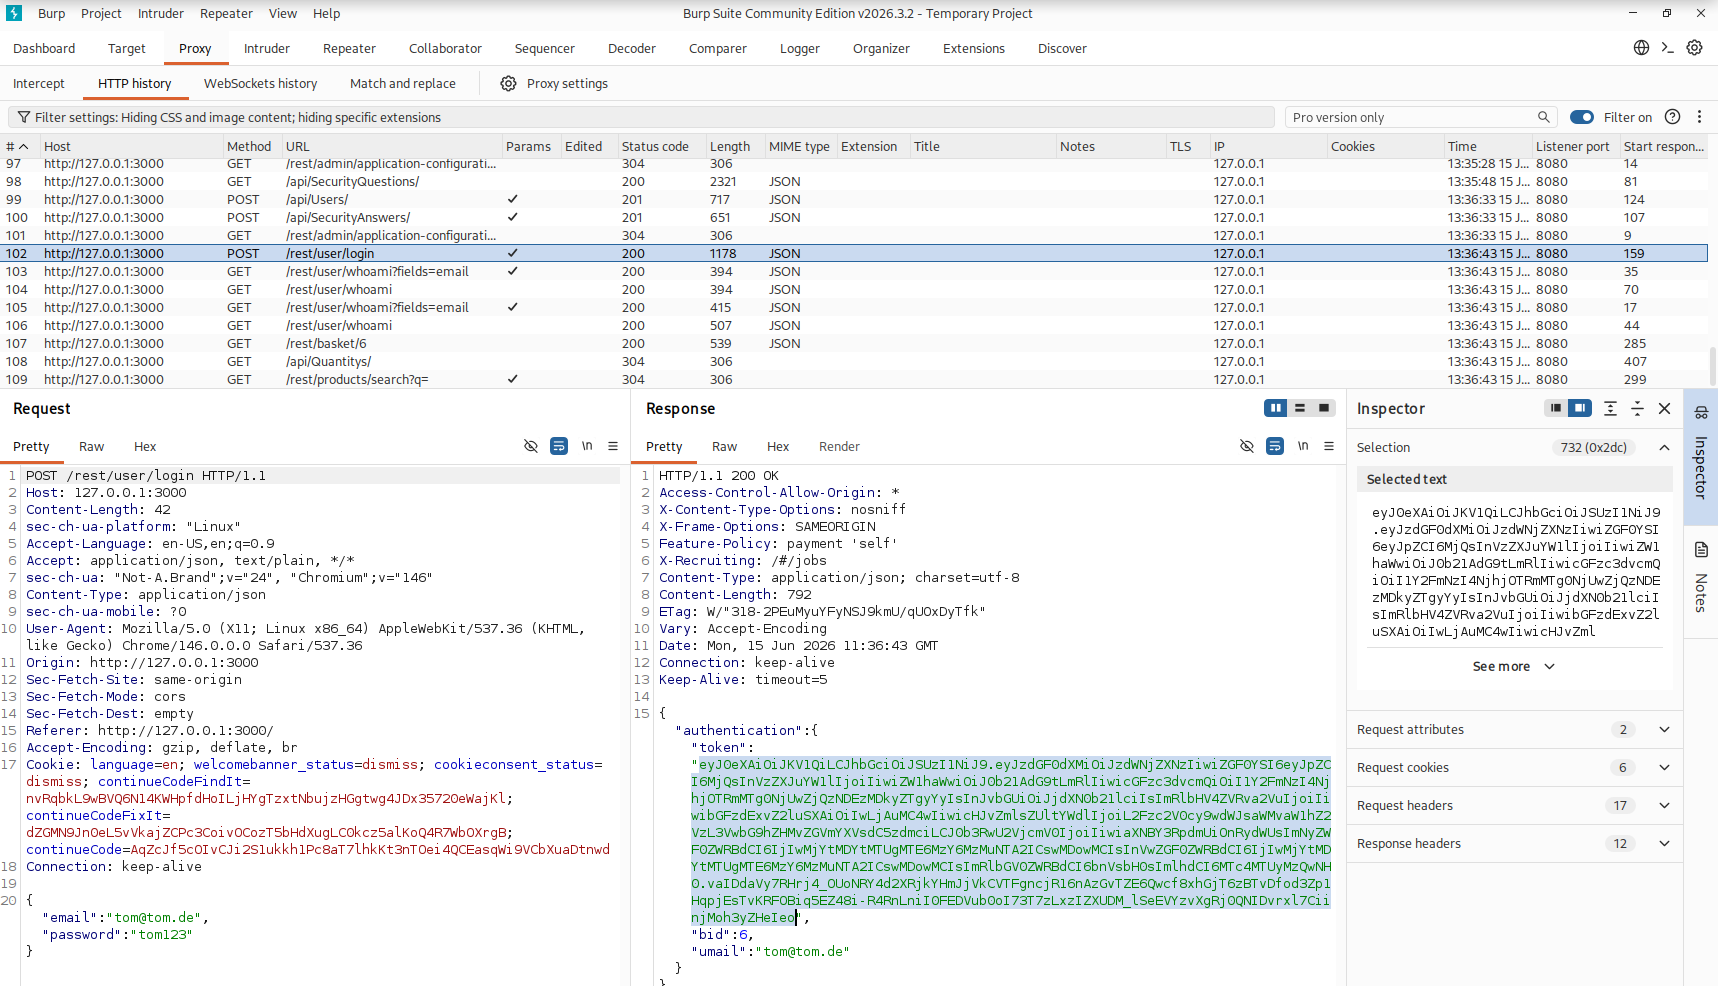
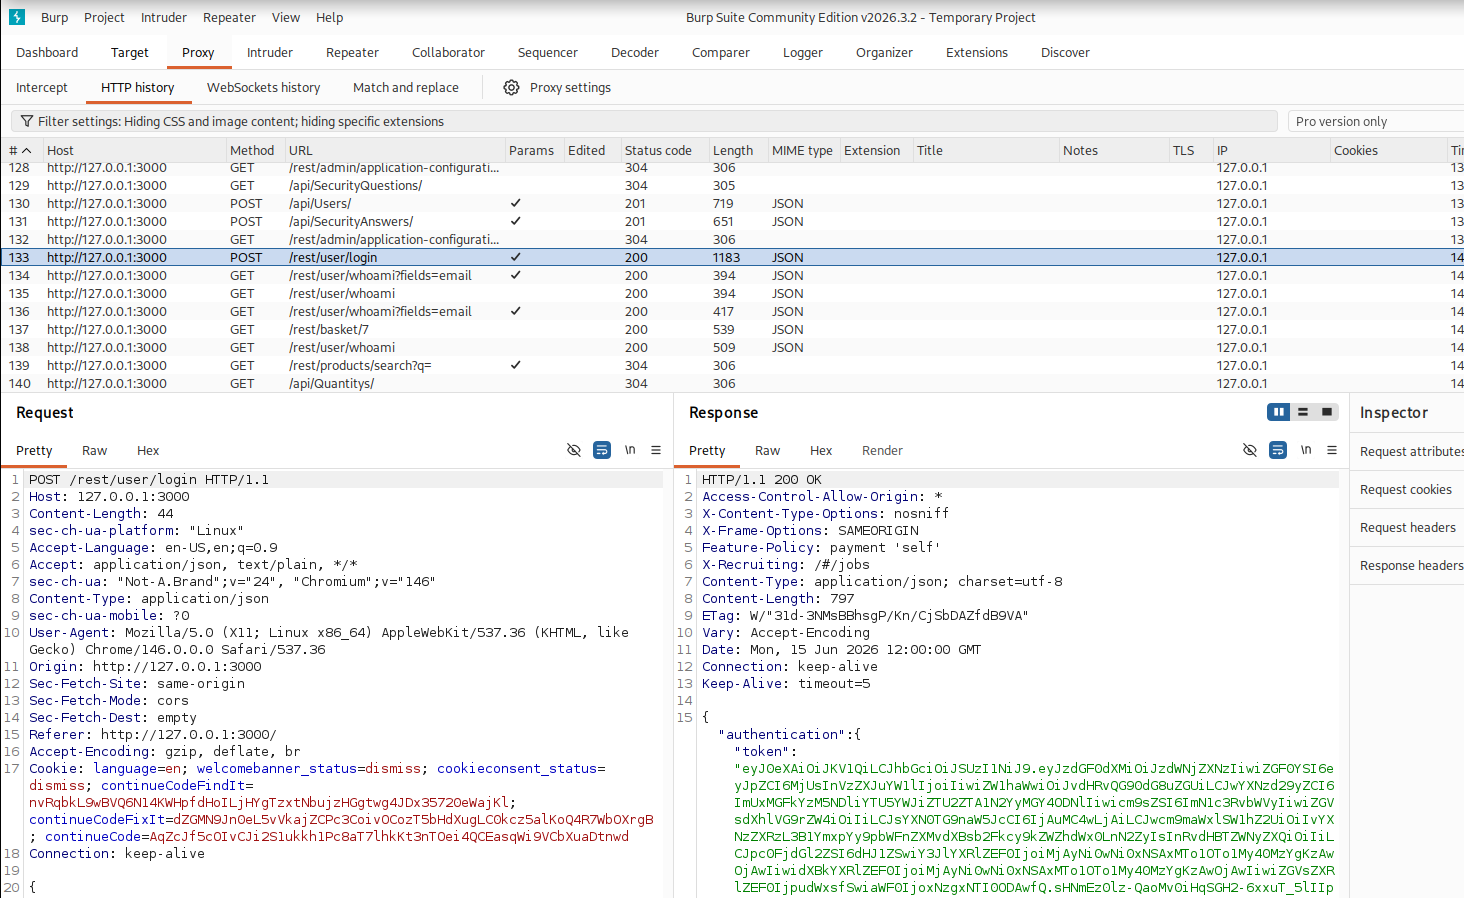
update readme

diff --git a/docs/juice-shop-master/Password-Hash-Leak/README.md b/docs/juice-shop-master/Password-Hash-Leak/README.md
@@ -10,5 +10,12 @@ Login to the OWASP Juice Shop using the built in webbrowser from burpsuite and t
 
 <img width="1464" height="898" alt="burp1" src="https://github.com/user-attachments/assets/62ed4787-9745-4ed1-a271-0cb47b45b42a" />
 
+Anyone familiar with Base64 encoded strings will notice that a JWT looks very similar.
+To decode base64 to plain text you can use Cyberchef.
+```https://gchq.github.io/CyberChef/```
+
+
+
+
 
 
